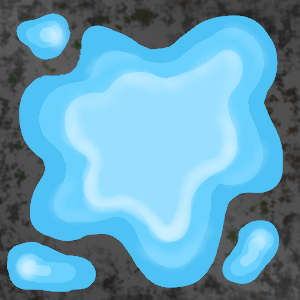
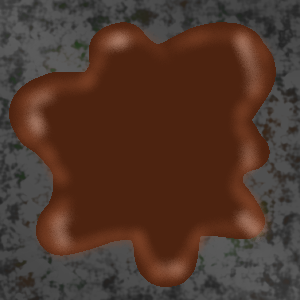
New oil image
Also cleanup

diff --git a/RoboRally/src/main/java/dtu/roboRally/Board.java b/RoboRally/src/main/java/dtu/roboRally/Board.java
@@ -76,41 +76,6 @@ public class Board {
 			if(isTileOnBoard(x, y-1)) board[y-1][x] = new Floor();
 			board[y][x+1] = new Floor(); //this tile is always on the board
 			if(isTileOnBoard(x-1, y)) board[y][x-1] = new Floor();
-			
-//			// checks the x-position, and removes obstacles in the x-direction
-//			if (x == 0) {
-//				if (! (board[y][x+1] instanceof StartPosition)) {
-//				board[y][x+1] = new Floor();
-//				}
-//			}
-//			else {
-//				if (! (board[y][x+1] instanceof StartPosition)) {
-//				board[y][x+1] = new Floor();
-//				}
-//				if (! (board[y][x-1] instanceof StartPosition)) {
-//				board[y][x-1] = new Floor();
-//				}
-//			}
-//			// check for y-position and removes obstacles in the y-direction
-//			if (y == 0) {
-//				if (! (board[y+1][x] instanceof StartPosition)) {
-//				board[y+1][x] = new Floor();
-//				}
-//			}
-//			else if (y == rows-1) {
-//				if (! (board[y-1][x] instanceof StartPosition)) {
-//					board[y-1][x] = new Floor();
-//					}
-//			}
-//			else {
-//				if (! (board[y-1][x] instanceof StartPosition)) {
-//				board[y-1][x] = new Floor();
-//				}
-//				if (! (board[y+1][x] instanceof StartPosition)) {
-//					board[y+1][x] = new Floor();
-//				}
-//			}
-
 		}
 	}
 	/**
@@ -130,25 +95,6 @@ public class Board {
 		if(isTileOnBoard(x,y-1)) board[y-1][x] = new Floor();
 		if(isTileOnBoard(x+1,y)) board[y][x+1] = new Floor();
 		board[y][x-1] = new Floor(); //this tile is always on the board.
-		
-//		// check x-position and removes obstacles around the endposition in x-direction
-//		if (x == cols - 1) {
-//			board[y][x-1] = new Floor();
-//			
-//		} else {
-//			board[y][x-1] = new Floor();
-//			board[y][x+1] = new Floor();
-//			
-//		}
-//		// checks y-position and removes obstacles around the endposition in y-direction
-//		if (y == 0) {
-//			board[y+1][x] = new Floor();
-//		} else if (y == rows - 1) {
-//			board[y-1][x] = new Floor();
-//		} else {
-//			board[y-1][x] = new Floor();
-//			board[y+1][x] = new Floor();
-//		}
 	}
 	
 	/**

diff --git a/RoboRally/src/main/java/dtu/roboRally/Game.java b/RoboRally/src/main/java/dtu/roboRally/Game.java
@@ -13,7 +13,7 @@ public class Game {
 	private Board board;
 	private Player winner;
 	private RoboRallyController observer;
-	private boolean testing=true;
+	private boolean testing=false;
 
 	/**
 	 * Creating a board-layout and adding the chosen amount of players

diff --git a/RoboRally/src/main/java/dtu/roboRally/Tile.java b/RoboRally/src/main/java/dtu/roboRally/Tile.java
@@ -14,7 +14,7 @@ public abstract class Tile {
 	private boolean occupied;
 	private Robot occupidRobot;
 	protected int orientation;
-	protected boolean testing = true;
+	protected boolean testing = false;
 
 	private RoboRallyController observer;
 	
